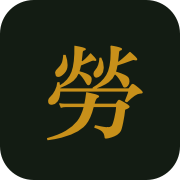
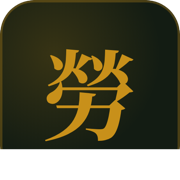
feat(home): hero 改「中華民國勞基法權益計算平台 + 簡介」
- hero h1: 中華民國勞基法權益計算平台（勞基法權益 染金）
- hero sub: 資遣費、加班費、特休、職災補償、工時合規。20+ 個工具，引用勞基法與勞退條例條號。
- 移除抒情 tagline「讓每份勞動都被公平對待」
- JSON-LD alternateName 拿掉「民眾版」字眼
- .gitignore 補 node_modules / package-lock.json / .DS_Store
- 補 favicon 32/48/192/512 + og-image + apple-touch-icon

diff --git a/index.html b/index.html
@@ -3,6 +3,10 @@
 <head>
 <script src="js/ga.js" defer></script>
 <meta charset="UTF-8">
+<link rel="icon" type="image/png" sizes="32x32" href="favicon-32.png">
+<link rel="icon" type="image/png" sizes="48x48" href="favicon-48.png">
+<link rel="icon" type="image/png" sizes="192x192" href="icon-192.png">
+<link rel="icon" type="image/png" sizes="512x512" href="icon-512.png">
 <link rel="icon" type="image/svg+xml" href="favicon.svg">
 <link rel="apple-touch-icon" href="apple-touch-icon.png" sizes="180x180">
 <link rel="manifest" href="/manifest.json">
@@ -22,12 +26,36 @@
 <meta property="og:url" content="https://labor.choulegal.com/">
 <meta property="og:site_name" content="LaborPro">
 <meta property="og:locale" content="zh_TW">
-<meta property="og:image" content="https://labor.choulegal.com/choulegal-icon.svg">
-<meta property="og:image:width" content="400">
-<meta property="og:image:height" content="400">
-<meta name="twitter:card" content="summary">
+<meta property="og:image" content="https://labor.choulegal.com/og-image.png">
+<meta property="og:image:type" content="image/png">
+<meta property="og:image:width" content="1200">
+<meta property="og:image:height" content="630">
+<meta property="og:image:alt" content="LaborPro 中華民國勞動基準法計算平台">
+<meta name="twitter:card" content="summary_large_image">
 <meta name="twitter:title" content="LaborPro｜中華民國勞基法權益計算平台">
+<meta name="twitter:description" content="免費計算資遣費、加班費、特休折現、職災補償。依中華民國勞動基準法設計。">
+<meta name="twitter:image" content="https://labor.choulegal.com/og-image.png">
 <link rel="canonical" href="https://labor.choulegal.com/">
+<script type="application/ld+json">
+{
+  "@context": "https://schema.org",
+  "@type": "WebApplication",
+  "name": "LaborPro",
+  "alternateName": "周全 · 勞動基準法計算平台",
+  "url": "https://labor.choulegal.com/",
+  "applicationCategory": "LegalService",
+  "operatingSystem": "Web",
+  "offers": { "@type": "Offer", "price": "0", "priceCurrency": "TWD" },
+  "image": "https://labor.choulegal.com/og-image.png",
+  "publisher": {
+    "@type": "Organization",
+    "name": "周全法律科技",
+    "alternateName": "ChouLegal",
+    "url": "https://choulegal.com/",
+    "logo": "https://choulegal.com/icon-512.png"
+  }
+}
+</script>
 <link href="https://fonts.googleapis.com/css2?family=Noto+Serif+TC:wght@400;600;700&family=DM+Mono:wght@400;500&family=Noto+Sans+TC:wght@300;400;500&display=swap" rel="stylesheet">
 <script src="js/supabase-config.js"></script>
 <script src="js/persona.js"></script>
@@ -961,8 +989,8 @@
   </div>
 
   <span class="eyebrow">中華民國勞基法 · 勞動權益</span>
-  <h1 class="hero-title">讓每份勞動<br>都被<em>公平對待</em></h1>
-  <p class="hero-sub">資遣費、加班費、職災補償、工時合規——20+ 個專業計算工具，依最新勞基法與勞退條例設計。</p>
+  <h1 class="hero-title">中華民國<em>勞基法權益</em>計算平台</h1>
+  <p class="hero-sub">資遣費、加班費、特休、職災補償、工時合規。20+ 個工具，引用勞基法與勞退條例條號。</p>
 
   <!-- Persona Bar -->
   <div class="persona-bar">
